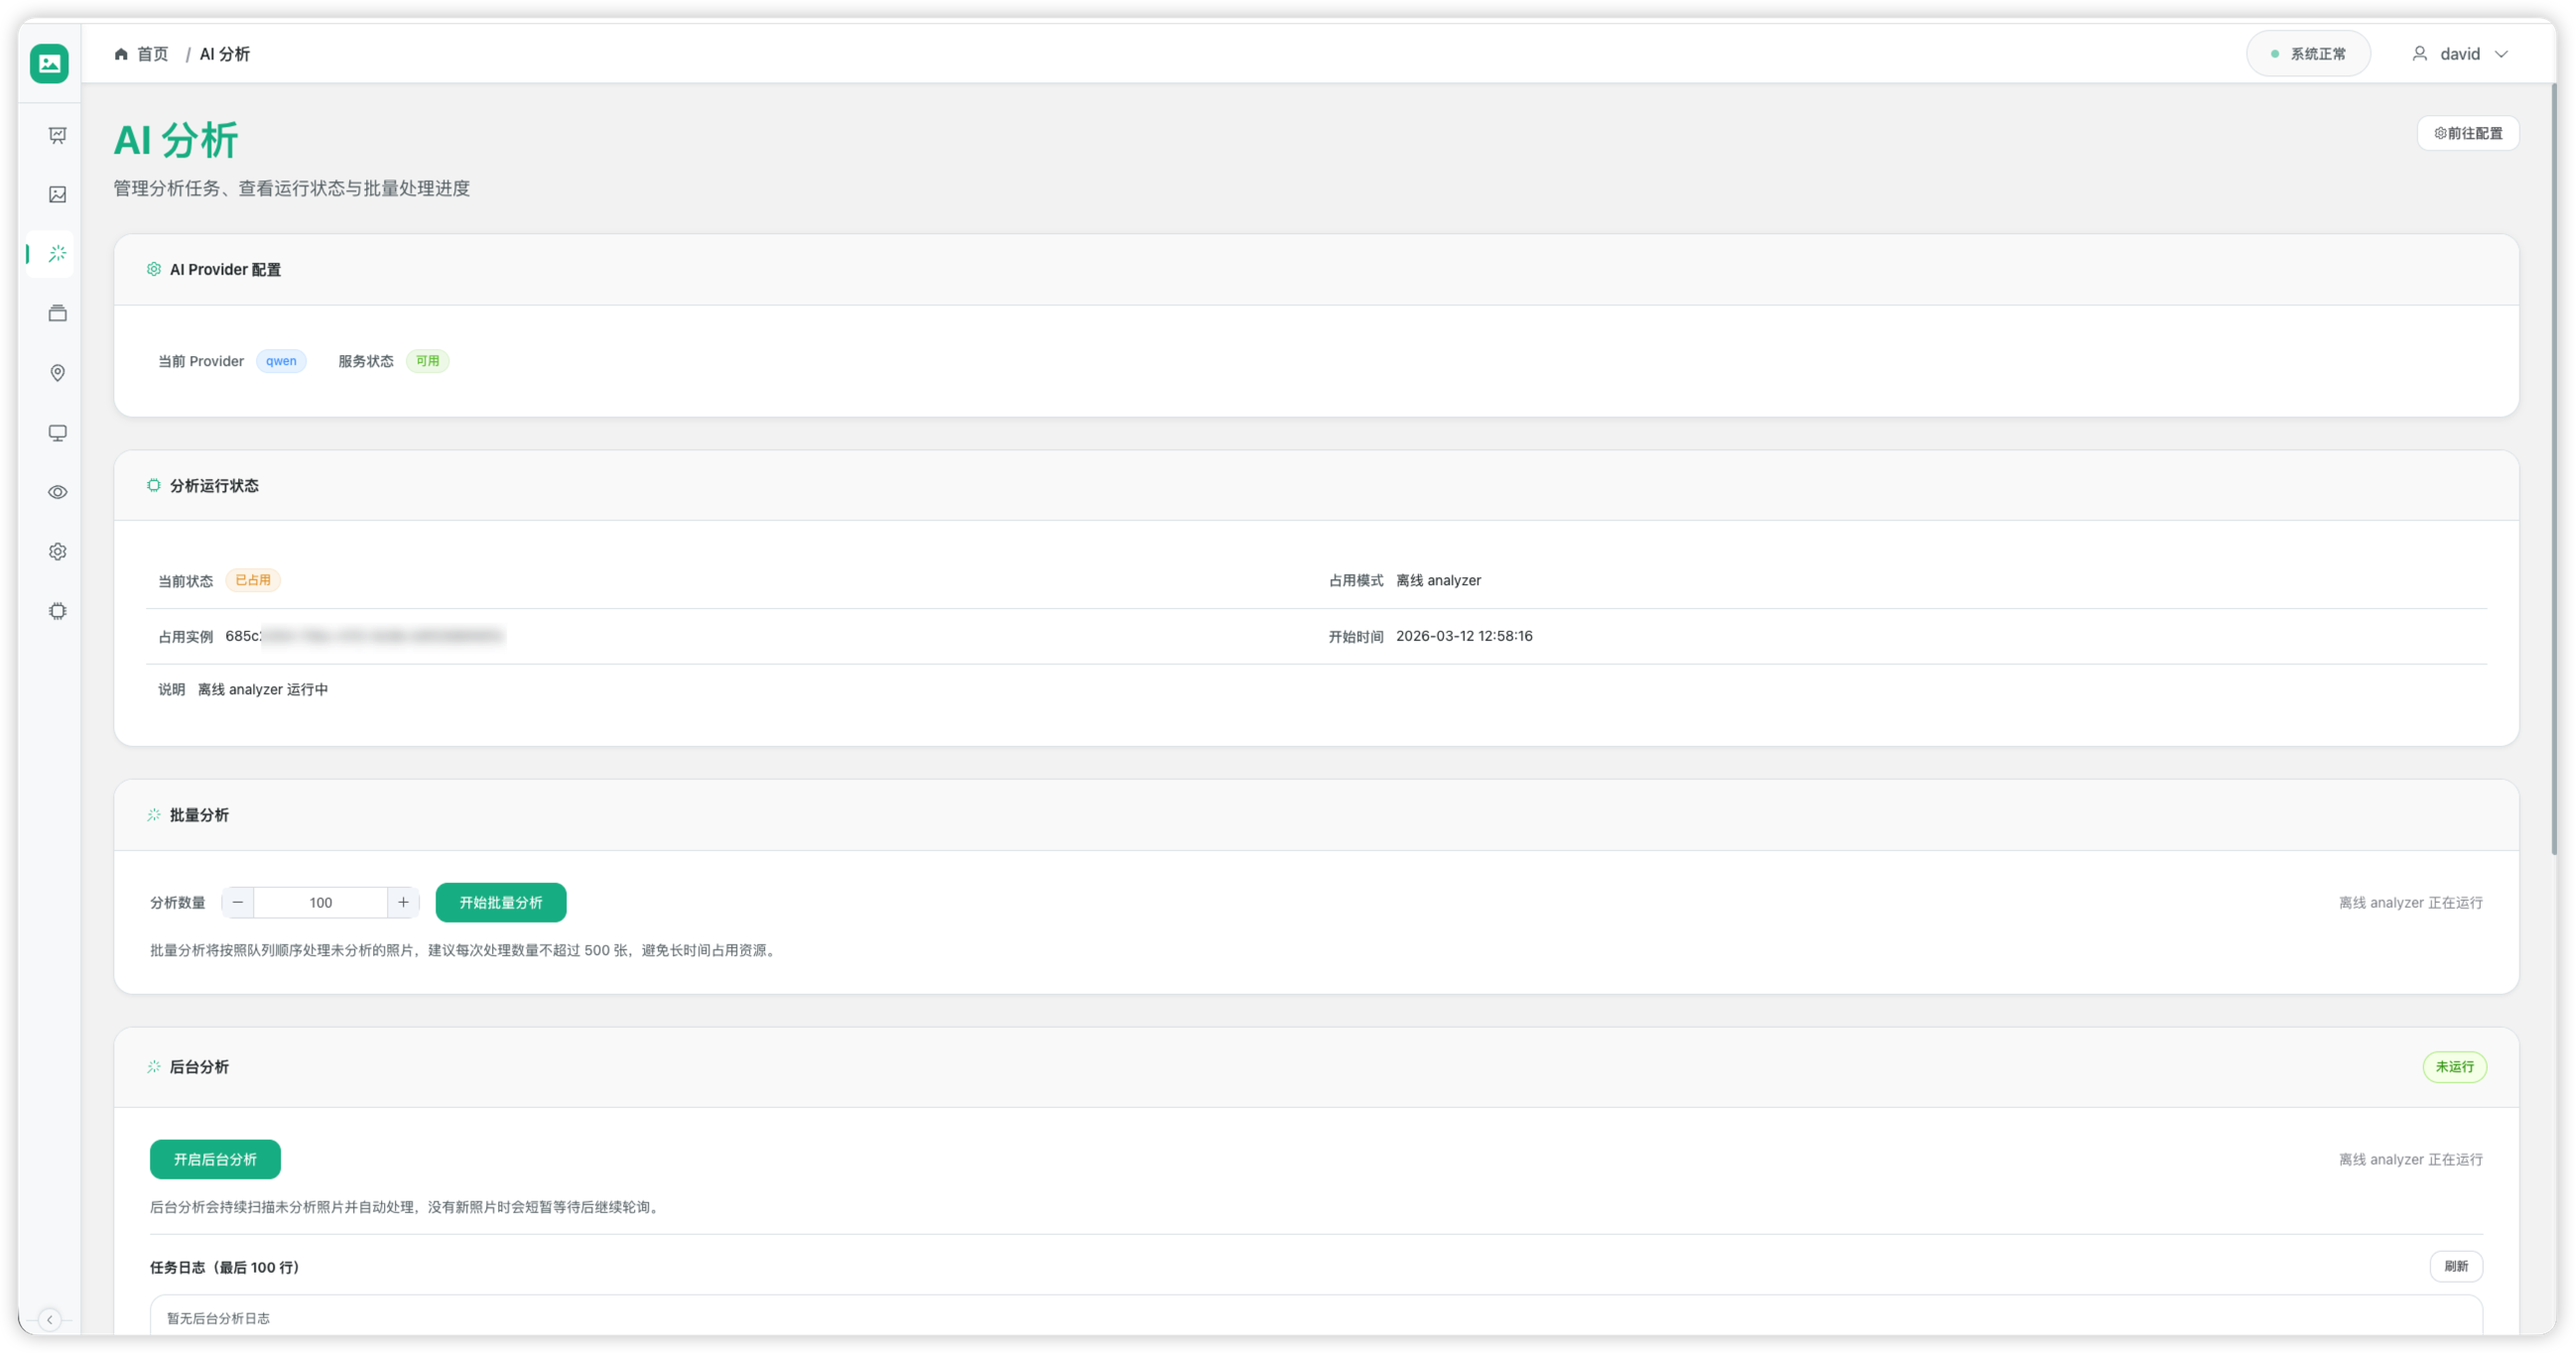
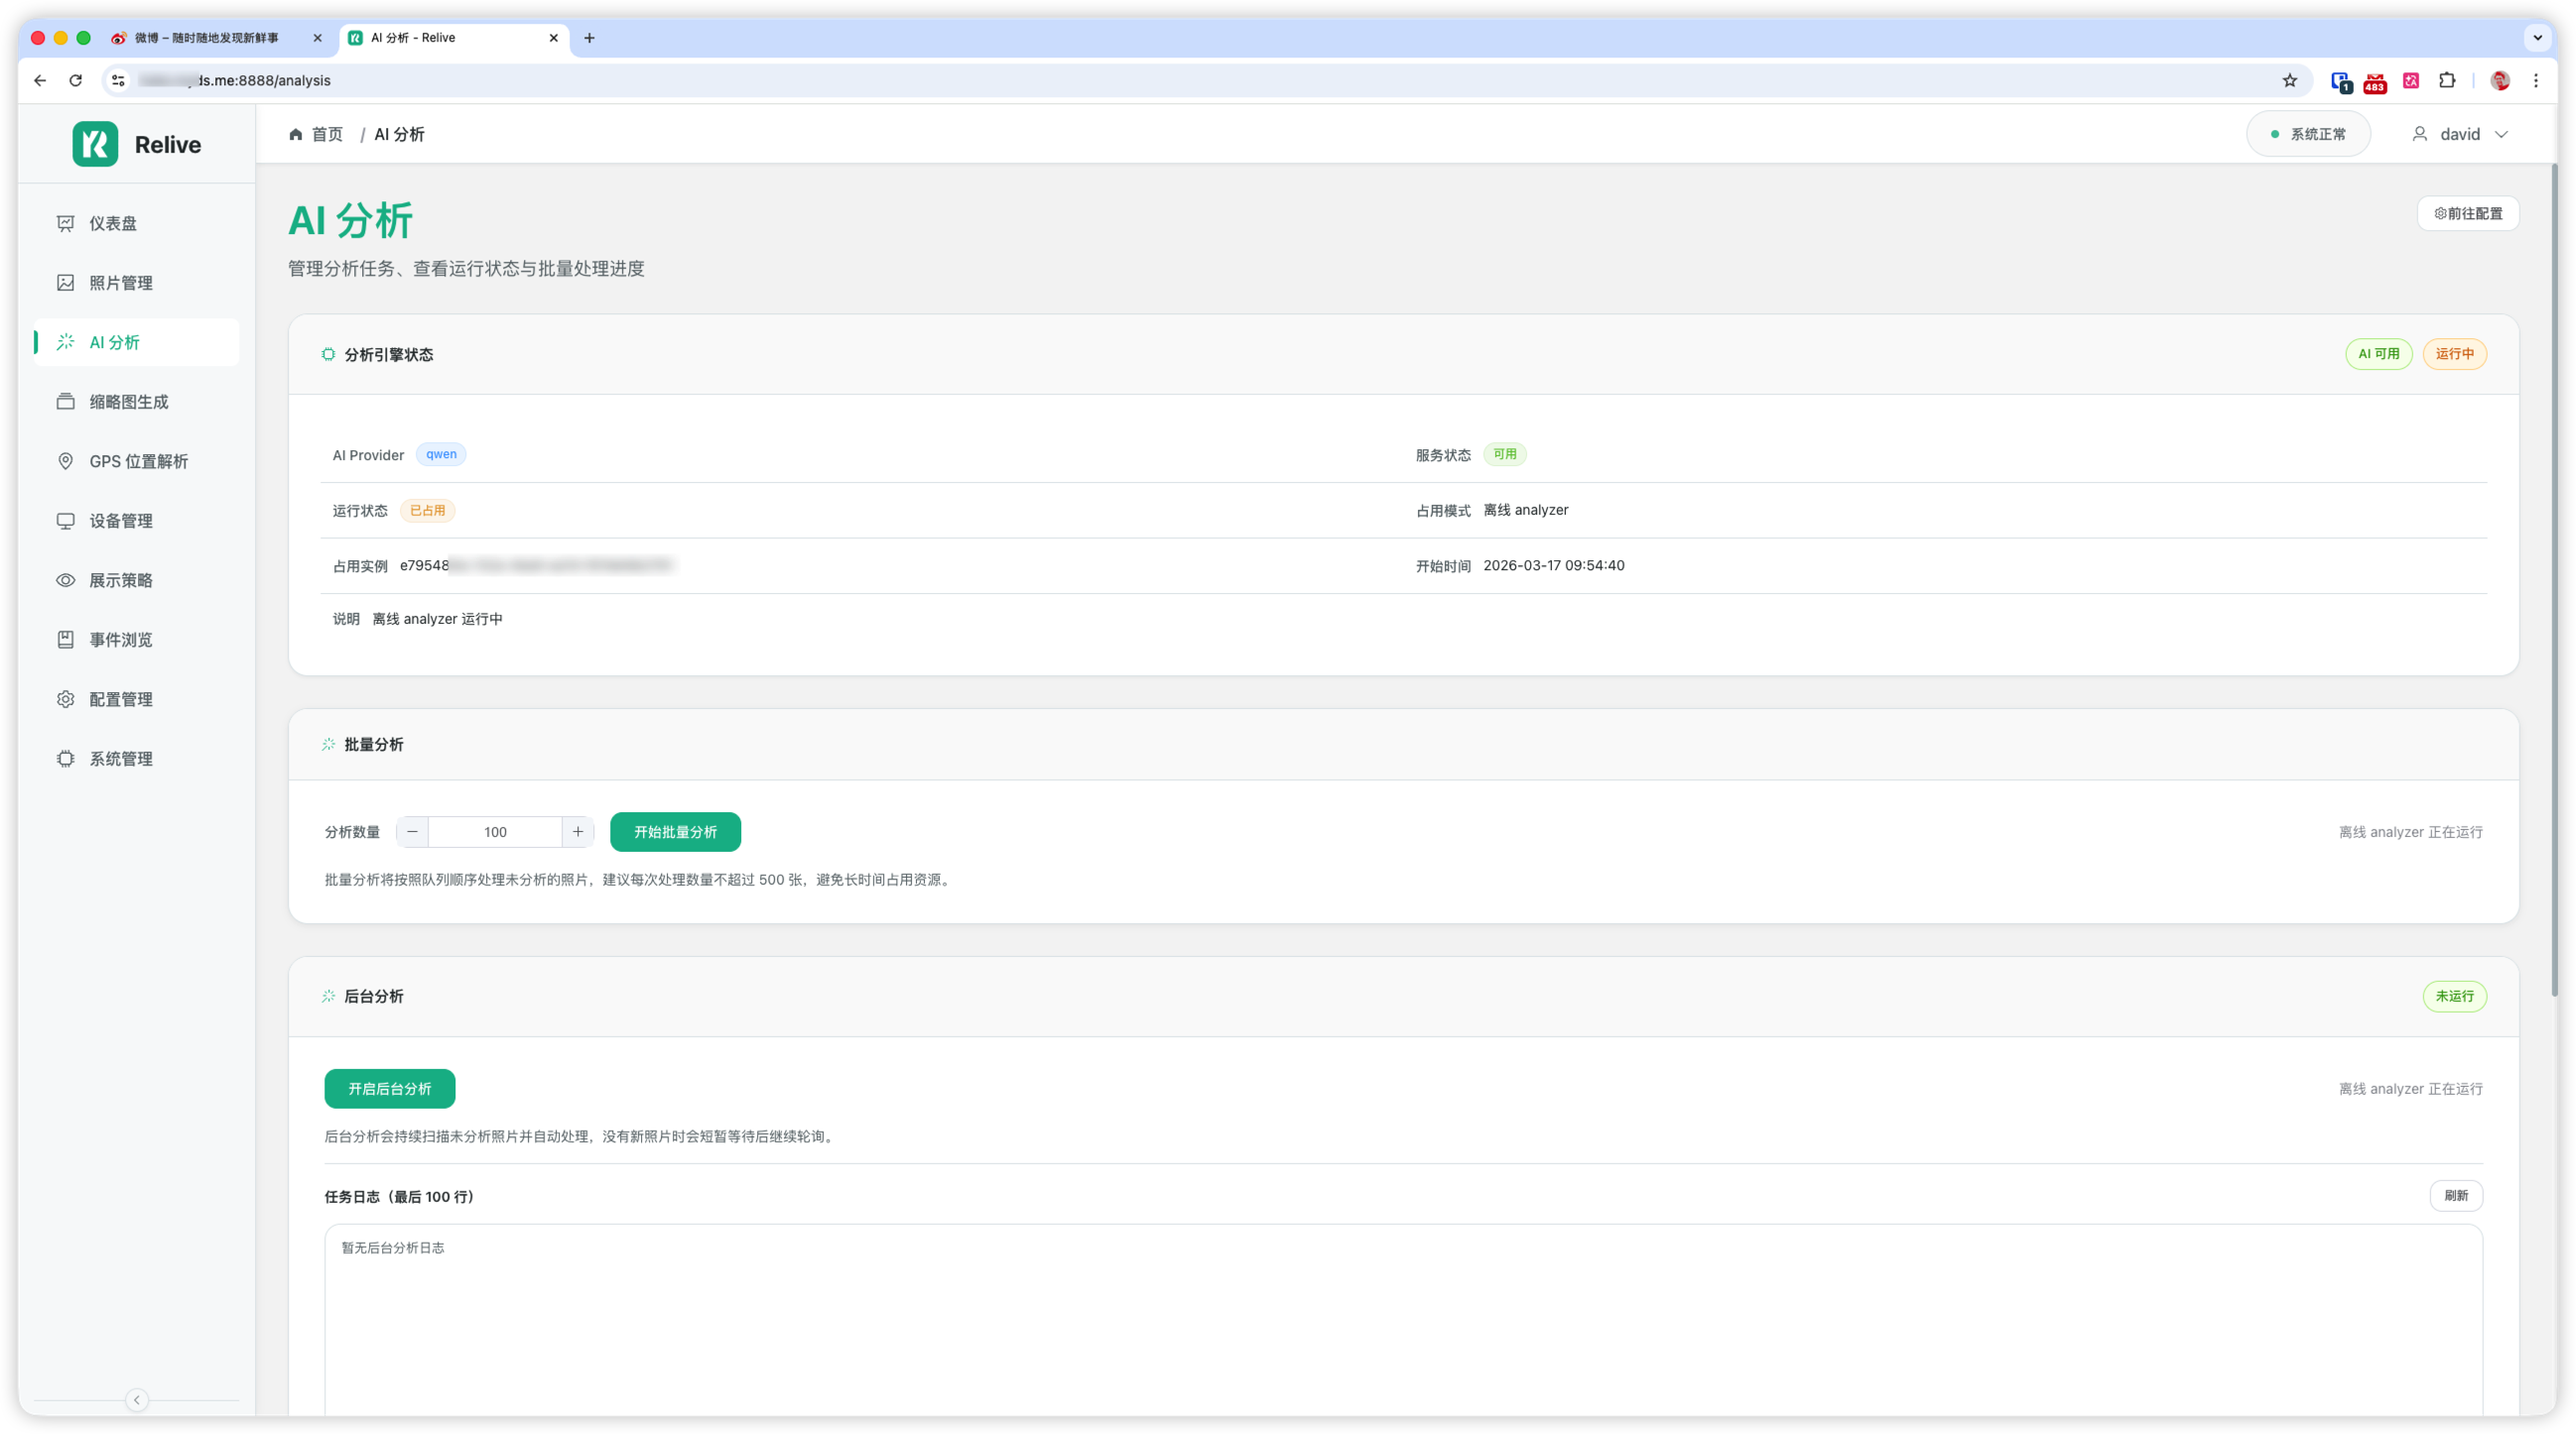
docs: 更新系统截图并新增事件浏览、配置管理、系统管理截图

diff --git a/README.md b/README.md
@@ -73,6 +73,15 @@ Relive 是一个自部署的照片回忆系统 —— 扫描你 NAS 中的照片
 ### GPS 位置解析
 ![Geocoding](docs/images/geocoding.png)
 
+### 事件浏览
+![Events](docs/images/events.png)
+
+### 配置管理
+![Config](docs/images/config.png)
+
+### 系统管理
+![System](docs/images/system.png)
+
 </details>
 
 ---
